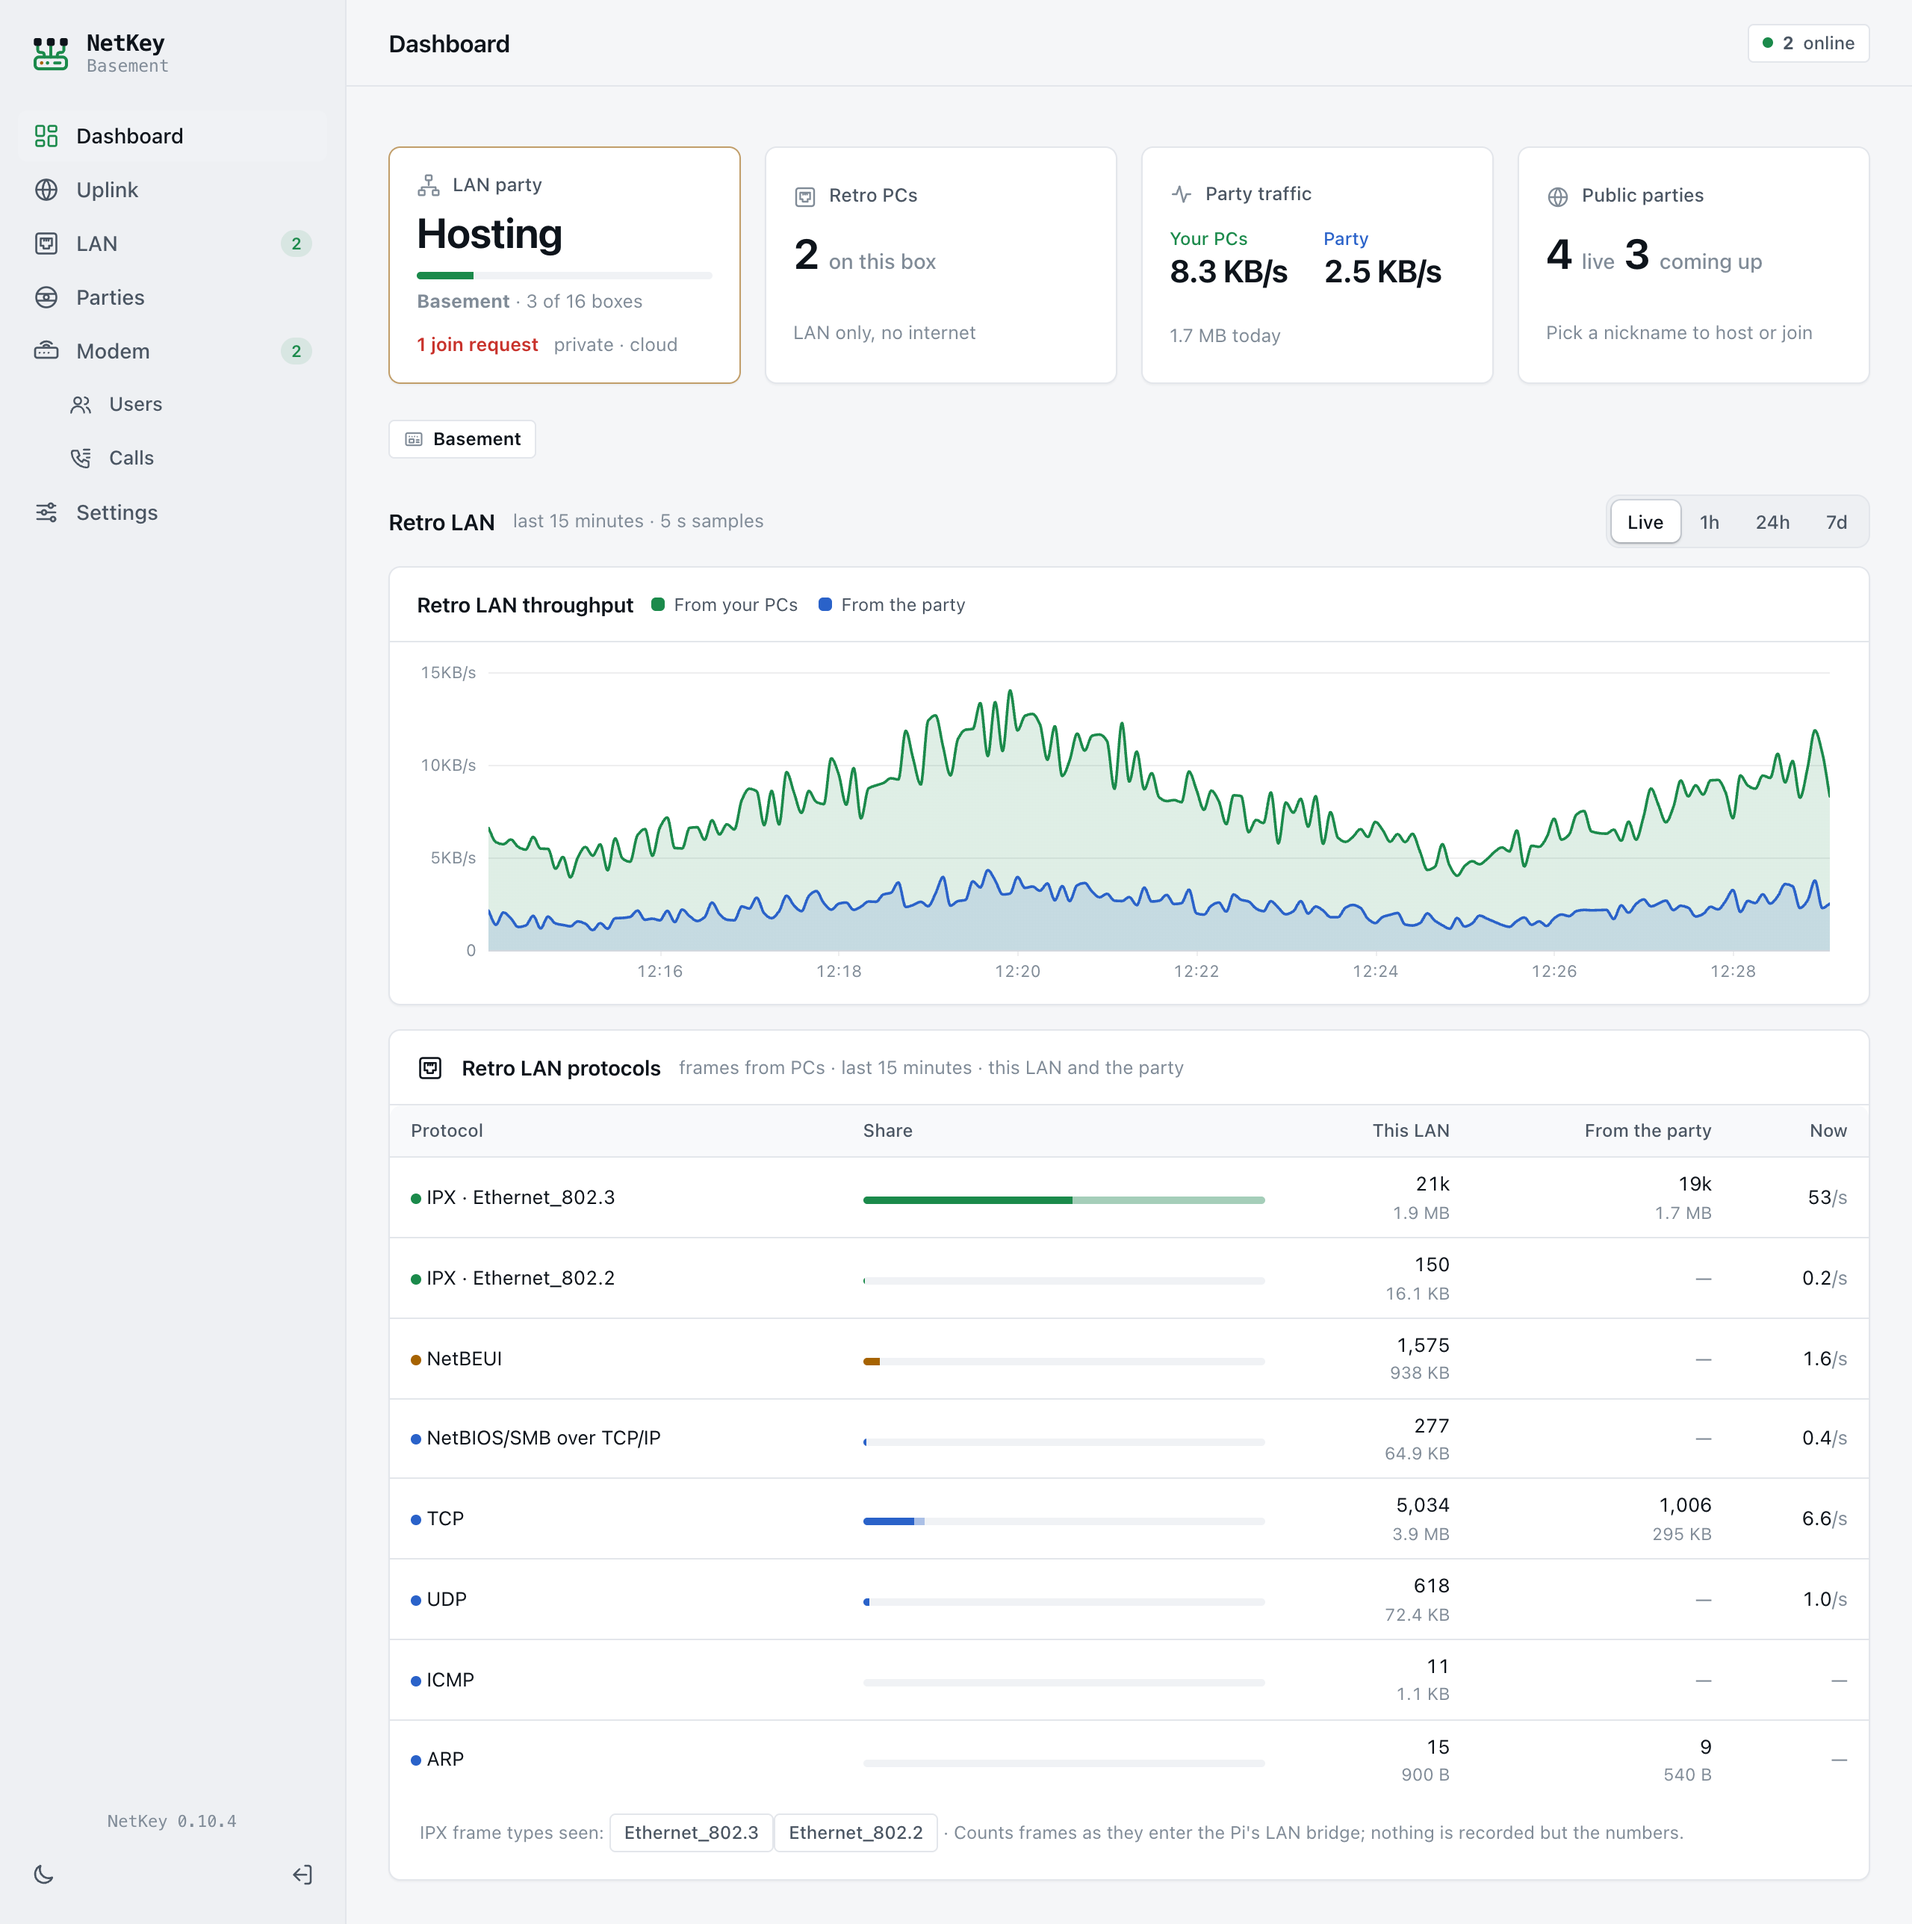
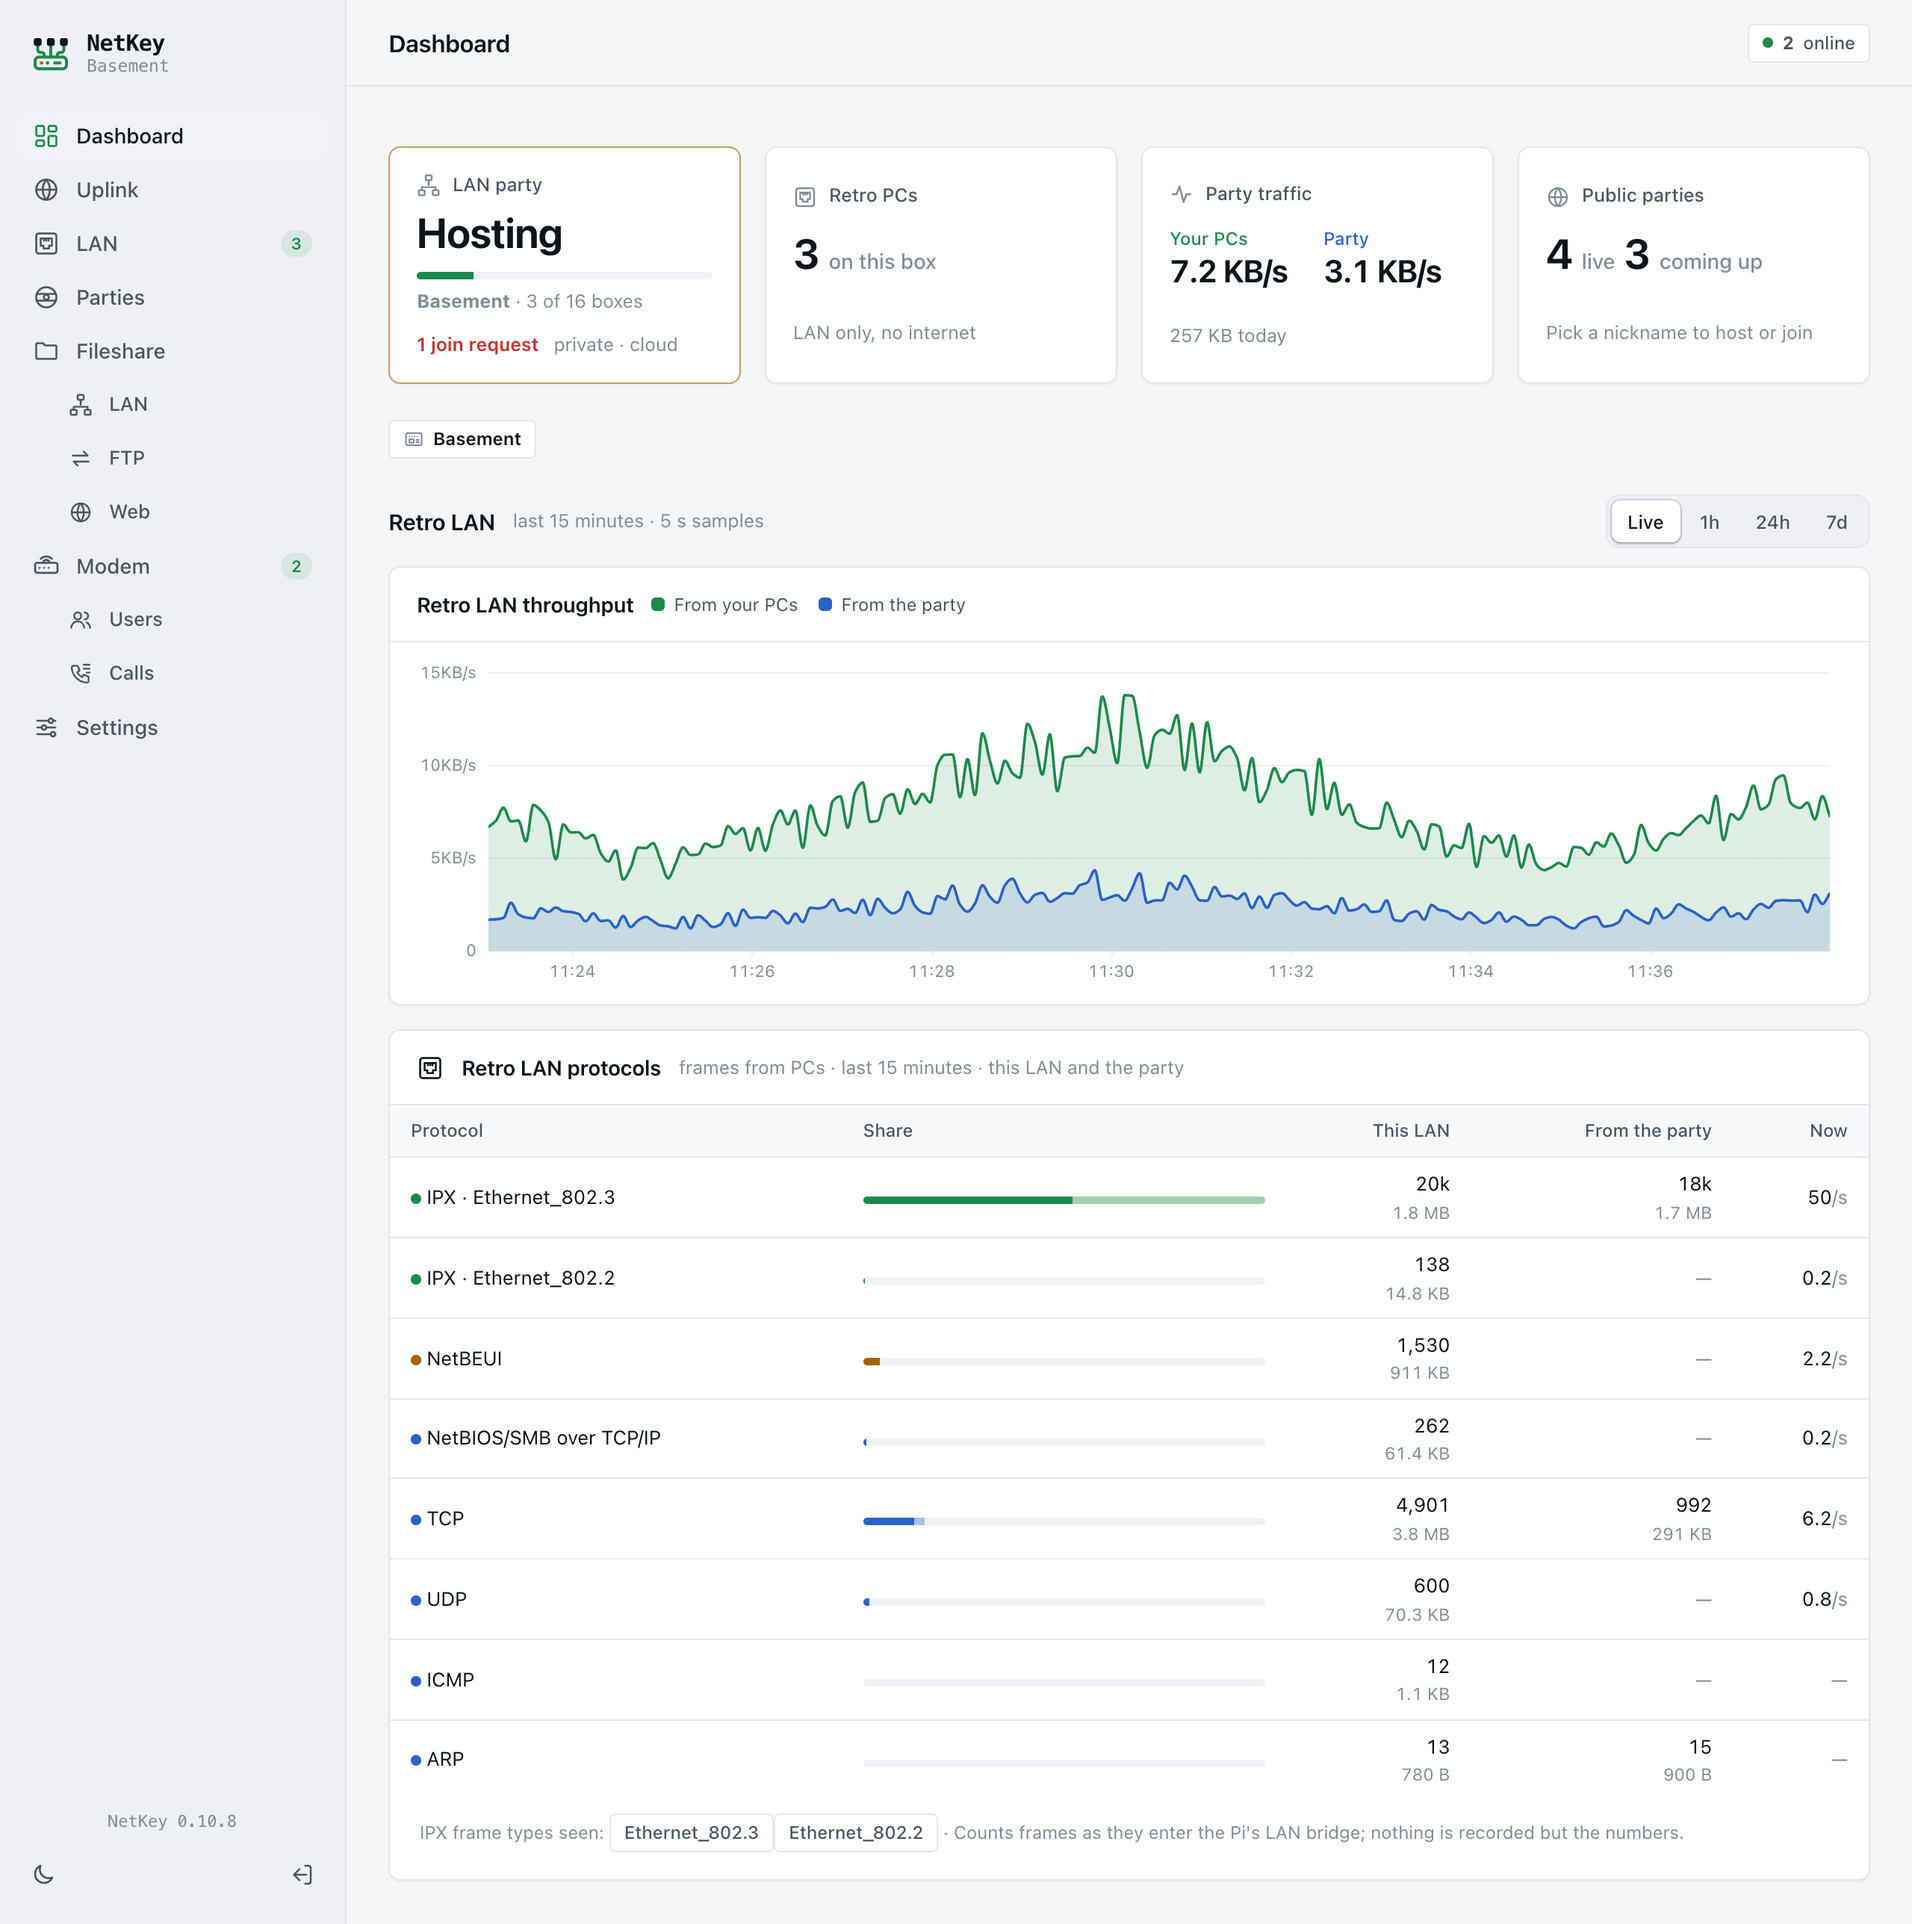
update installer

diff --git a/netkey/uplink.py b/netkey/uplink.py
@@ -183,8 +183,10 @@ def nm_split(line):
 
 
 def is_known_name(name):
-    """A saved Wi-Fi network of this box (not the hotspot, not a network still being joined)."""
-    return name == WIFI_PROFILE or (name.startswith(WIFI_PROFILE + "-") and name[len(WIFI_PROFILE) + 1:].isdigit())
+    """A saved Wi-Fi network of this box (not the hotspot, not a network still being joined). Besides the box's own
+    netkey-wifi-<n>, this is any other saved one, such as the network Raspberry Pi Imager set up ("preconfigured",
+    "netplan-wlan0-...")."""
+    return bool(name) and name not in (HOTSPOT_PROFILE, WIFI_TRIAL)
 
 
 def parse_scan(text):
@@ -242,9 +244,29 @@ class Uplink:
     def save(self):
         write_json_atomic(os.path.join(self.d.state_dir, STATE_FILE), self.state, mode=0o600)
 
+    def chosen(self):
+        """True when someone picked the uplink (in the GUI, or uplink = "wifi" in config.toml)."""
+        return bool(getattr(self.d, "uplink_chosen", False)) or self.d.cfg["network"]["uplink"] != "ethernet"
+
+    def configured(self):
+        """The uplink setting; until someone picks one, what the box was using when it first came online."""
+        return self.d.cfg["network"]["uplink"] if self.chosen() else self.state.get("auto_mode", "ethernet")
+
     def mode(self):
-        m = self.d.cfg["network"]["uplink"]
-        return "wifi" if m == "wifi" and self.wifi else "ethernet"
+        return "wifi" if self.configured() == "wifi" and self.wifi else "ethernet"
+
+    def learn_mode(self):
+        """Nobody picked the uplink yet: take the one the box came online through (set up with Raspberry Pi Imager
+        on Wi-Fi, say), once, so the GUI shows it and the built-in port is free to decide by itself."""
+        if self.chosen() or "auto_mode" in self.state:
+            return
+        routes = sorted(self.uplink_routes(), key=lambda r: r.get("metric", 0))
+        if not routes:
+            return
+        self.state["auto_mode"] = "wifi" if self.wifi and routes[0].get("dev") == self.wifi else "ethernet"
+        self.save()
+        log.info("lan: uplink not chosen yet; the box came online via %s, so that is the uplink",
+                 "Wi-Fi" if self.state["auto_mode"] == "wifi" else "Ethernet")
 
     def hotspot_password(self):
         return HOTSPOT_PASSWORD
@@ -255,6 +277,12 @@ class Uplink:
 
     def carrier(self, name):
         return read_sys(os.path.join(self.d.sys_net, name, "carrier")) == "1"
+
+    def eth_carrier(self):
+        """Cable in the built-in port, also while it sits in the party namespace (not visible in our /sys)."""
+        if os.path.exists(os.path.join(self.d.sys_net, self.eth)):
+            return self.carrier(self.eth)
+        return "LOWER_UP" in self.d.ns_links().get(self.eth, {}).get("flags", [])
 
     def uplink_routes(self):
         return [r for r in self.d.default_route() if r.get("dev") != VETH_MAIN]
@@ -572,6 +600,7 @@ class Uplink:
     # every daemon step (before the LAN logic, also when the LAN port is switched off)
     def tick(self):
         self.refresh_ports()
+        self.learn_mode()
         now = time.monotonic()
         if self.wifi and self.mode() == "wifi" and now - self.last_radio >= 30 and \
                 self.wifi_info.get("state") in (None, "unavailable"):
@@ -587,16 +616,19 @@ class Uplink:
 
     def build_status(self, now):
         routes = self.uplink_routes()
-        eth_role = None
+        eth_role, eth_carrier = None, False
         if self.eth:
+            eth_carrier = self.eth_carrier()
             if self.mode() == "ethernet":
                 eth_role = "uplink"
             elif self.mgmt == self.eth:
                 eth_role = "management"
+            elif not eth_carrier:
+                eth_role = "unplugged"
             elif self.d.nic == self.eth:
                 eth_role = "retro" if self.d.nic_ok else "checking"
             else:
-                eth_role = "unplugged" if not self.carrier(self.eth) else "checking"
+                eth_role = "checking"
         eth_ip = None
         if self.eth and eth_role in ("uplink", "management"):
             r = self.run("ip", "-j", "-4", "addr", "show", "dev", self.eth)
@@ -606,13 +638,13 @@ class Uplink:
             except ValueError:
                 pass
         self.status = {
-            "mode": self.mode(), "configured_mode": self.d.cfg["network"]["uplink"],
+            "mode": self.mode(), "configured_mode": self.configured(), "mode_chosen": self.chosen(),
             "wifi_available": bool(self.wifi), "uplink_ok": bool(routes),
             "uplink_dev": routes[0]["dev"] if routes else None,
             "uplink_lost_for": int(now - self.lost_since) if self.lost_since else None,
             "wifi": dict(self.wifi_info, iface=self.wifi, country=self.state.get("country")) if self.wifi else None,
             "ethernet": {"name": self.eth, "role": eth_role, "ip": eth_ip,
-                         "carrier": self.carrier(self.eth) if self.eth else False} if self.eth else None,
+                         "carrier": eth_carrier} if self.eth else None,
             "hotspot": {"enabled": bool(self.d.cfg["network"]["hotspot"]) and bool(self.wifi), "state": self.hotspot,
                         "ssid": self.hotspot_ssid() if self.wifi else None, "address": HOTSPOT_ADDR.split("/")[0],
                         "clients": self.clients() if self.hotspot == "on" else 0,

diff --git a/netkey/lan.py b/netkey/lan.py
@@ -293,6 +293,7 @@ class LanDaemon:
         self.dns_share = None
         self.cfg = base_cfg
         self.settings_mtime = None
+        self.uplink_chosen = False        # network.uplink set in the GUI (else Uplink learns it once)
         self.status = {}
         self.last_error = None
         self.party = pt.PartyState(state_dir)
@@ -361,6 +362,7 @@ class LanDaemon:
             self.settings_mtime = mtime
             data = read_json(path, {}) or {}
             self.cfg = apply_overrides(self.base, data.get("settings", {}), None, log.warning)
+            self.uplink_chosen = "network.uplink" in (data.get("settings") or {})
 
     def default_route(self):
         r = self.run("ip", "-j", "route", "show", "default", check=False)
